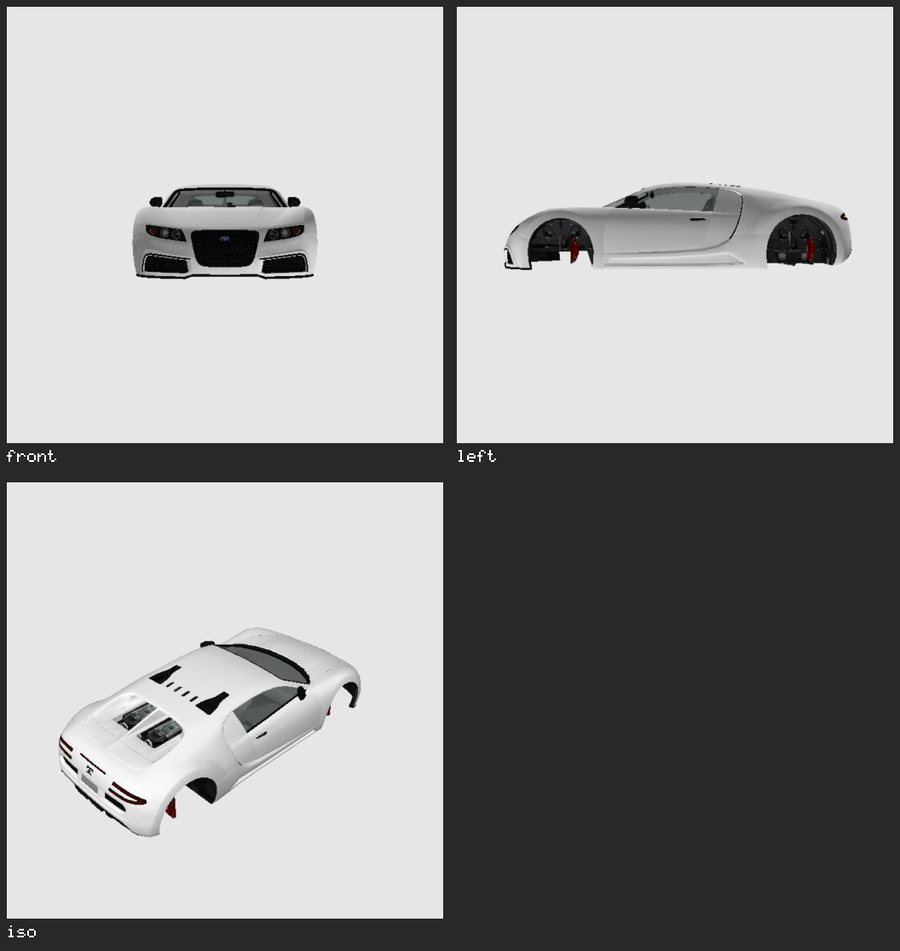
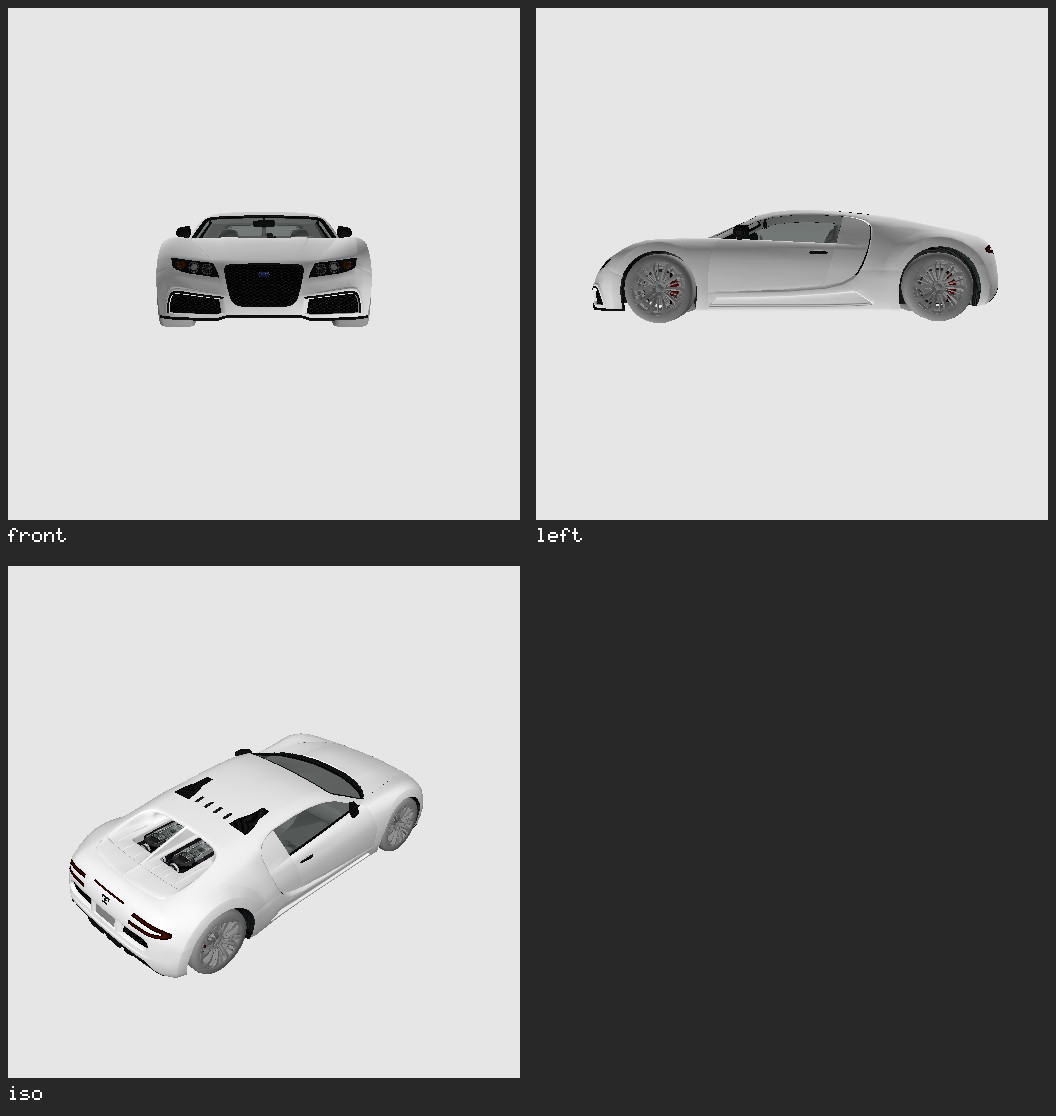
screenshot: render fragments with their wheels and physics children
A .yft now renders as one composite: the body posed by the fragment's
bone transforms plus every physics child with a mesh, placed by its
physics transform (rpf-archive 0.9.0). Empty wheel slots borrow the
front/rear wheel mesh and right-hand wheels are mirrored. The summary
line reports the part and wheel counts; the smoke test renders
jester2.yft from the Festive Surprise DLC and checks for four wheels.
Gallery images regenerated.

Claude-Session: https://claude.ai/code/session_01K19PMkHg2d4DwepLkNtZyr

Changed region(s): [[0.56, 0.183, 0.9333, 0.3049], [0.0622, 0.6709, 0.4044, 0.8843], [0.1556, 0.183, 0.3422, 0.3049]]

diff --git a/src/commands/screenshot.rs b/src/commands/screenshot.rs
@@ -1,10 +1,11 @@
 use anyhow::{Context, Result};
 use std::path::PathBuf;
 
-use rpf_archive::{compose_sheet, encode_image, render_views, DrawableEntry, ImageFormat,
-                  LodLevel, RenderOptions, SheetItem, SheetOptions, TextureSet, View};
+use rpf_archive::{compose_sheet, encode_image, render_parts, wheel_slot, DrawableEntry, ImageFormat,
+                  LodLevel, RenderOptions, RenderPart, SheetItem, SheetOptions, TextureSet, View};
 
-use crate::resources::{embedded_textures, file_stem, load_drawables, load_texture_dictionary, sanitize};
+use crate::resources::{embedded_textures_of, file_stem, load_renderables, load_texture_dictionary, sanitize,
+                       Loaded};
 use crate::rpf::{Archive, GtaKeys};
 
 /// JPEG quality used for the rendered images (PNG/WebP ignore it).
@@ -170,10 +171,66 @@ fn image_file_name(stem: &str, entry: Option<&str>, view: Option<&str>, ext: &st
 
 /// The label an entry is reported and named by.
 fn entry_label(entry: &DrawableEntry) -> String {
-    if entry.name.is_empty() {
-        format!("0x{:08X}", entry.hash)
+    label_for(&entry.name, entry.hash)
+}
+
+fn label_for(name: &str, hash: u32) -> String {
+    if name.is_empty() {
+        format!("0x{hash:08X}")
     } else {
-        strip_rage_suffix(&entry.name).to_string()
+        strip_rage_suffix(name).to_string()
+    }
+}
+
+/// One image set to render: a plain drawable, or a fragment's body with its
+/// wheels and doors placed on it.
+struct Renderable<'a> {
+    label: String,
+    hash: u32,
+    parts: Vec<RenderPart<'a>>,
+    /// Wheel slots drawn (including ones filled from another wheel's mesh).
+    wheels: usize,
+}
+
+/// Lists what to render: each .ydr/.ydd entry on its own; a fragment as one
+/// composite of body plus physics children, followed by its extra drawables.
+fn renderables(loaded: &Loaded) -> Vec<Renderable<'_>> {
+    match loaded {
+        Loaded::Entries(entries) => entries
+            .iter()
+            .map(|entry| Renderable {
+                label: entry_label(entry),
+                hash: entry.hash,
+                parts: vec![RenderPart::new(&entry.drawable)],
+                wheels: 0,
+            })
+            .collect(),
+        Loaded::Fragment(fragment) => {
+            let mut out = Vec::new();
+            if let Some(body) = &fragment.drawable {
+                let name = if fragment.name.is_empty() { &body.name } else { &fragment.name };
+                let fragment_parts = fragment.render_parts();
+                let wheels = fragment_parts
+                    .iter()
+                    .filter(|part| part.bone_tag.is_some_and(|tag| wheel_slot(tag).is_some()))
+                    .count();
+                out.push(Renderable {
+                    label: label_for(name, body.name_hash),
+                    hash: body.name_hash,
+                    parts: fragment_parts.into_iter().map(RenderPart::from).collect(),
+                    wheels,
+                });
+            }
+            for extra in &fragment.extra_drawables {
+                out.push(Renderable {
+                    label: entry_label(extra),
+                    hash: extra.hash,
+                    parts: vec![RenderPart::new(&extra.drawable)],
+                    wheels: 0,
+                });
+            }
+            out
+        }
     }
 }
 
@@ -181,12 +238,12 @@ fn entry_label(entry: &DrawableEntry) -> String {
 fn build_texture_set(
     archive: &Archive,
     args: &ScreenshotArgs,
-    entries: &[DrawableEntry],
+    loaded: &Loaded,
     keys: Option<&GtaKeys>,
 ) -> TextureSet {
     let mut set = TextureSet::new();
 
-    let embedded: Vec<_> = embedded_textures(entries).into_iter().cloned().collect();
+    let embedded: Vec<_> = embedded_textures_of(loaded.drawables()).into_iter().cloned().collect();
     report_failed(&set.push_layer(&embedded), "embedded");
 
     if args.ytd.is_empty() {
@@ -225,10 +282,11 @@ pub fn run(args: &ScreenshotArgs, keys: Option<&GtaKeys>) -> Result<()> {
     let archive = Archive::open(&args.archive, keys)?;
     archive.require_keys(keys)?;
 
-    let mut entries = load_drawables(&archive, &args.file, keys)?;
+    let loaded = load_renderables(&archive, &args.file, keys)?;
+    let mut entries = renderables(&loaded);
 
     if let Some(filter) = &args.entry {
-        entries.retain(|entry| entry_matches(&entry.name, entry.hash, filter));
+        entries.retain(|entry| entry_matches(&entry.label, entry.hash, filter));
         if entries.is_empty() {
             anyhow::bail!("no entry matching '{}' in '{}'", filter, args.file);
         }
@@ -238,7 +296,7 @@ pub fn run(args: &ScreenshotArgs, keys: Option<&GtaKeys>) -> Result<()> {
         anyhow::bail!("'{}' holds no drawables", args.file);
     }
 
-    let textures = build_texture_set(&archive, args, &entries, keys);
+    let textures = build_texture_set(&archive, args, &loaded, keys);
 
     let stem = file_stem(&args.file);
     let out_dir = args.output.clone().unwrap_or_else(|| PathBuf::from("."));
@@ -266,8 +324,8 @@ pub fn run(args: &ScreenshotArgs, keys: Option<&GtaKeys>) -> Result<()> {
     let mut written = 0usize;
 
     for entry in &entries {
-        let label = entry_label(entry);
-        let rendered = render_views(&entry.drawable, &textures, &options, &views)
+        let label = &entry.label;
+        let rendered = render_parts(&entry.parts, &textures, &options, &views)
             .with_context(|| format!("failed to render '{}'", label))?;
 
         let report = rendered
@@ -275,14 +333,20 @@ pub fn run(args: &ScreenshotArgs, keys: Option<&GtaKeys>) -> Result<()> {
             .map(|(_, _, report)| report.clone())
             .unwrap_or_default();
 
+        let parts = if entry.parts.len() > 1 {
+            format!(", {} parts ({} wheels)", entry.parts.len(), entry.wheels)
+        } else {
+            String::new()
+        };
         println!(
-            "{}: {} triangles, {} geometries ({} untextured), lod {}, bounds {}",
+            "{}: {} triangles, {} geometries ({} untextured), lod {}, bounds {}{}",
             label,
             report.triangles,
             report.geometries,
             report.untextured_geometries,
             report.lod.map(|lod| lod.as_str()).unwrap_or("none"),
             if report.bounds_computed { "computed" } else { "from file" },
+            parts,
         );
 
         if !report.missing_textures.is_empty() {
@@ -422,6 +486,83 @@ mod tests {
             "dict_part_a_front.webp"
         );
         assert_eq!(image_file_name("prop_x", None, Some("grid"), "png"), "prop_x_grid.png");
+    }
+
+    fn stub_drawable(name: &str, models: usize) -> rpf_archive::Drawable {
+        use rpf_archive::{Drawable, DrawableBounds, DrawableLod, DrawableModel, Vec3};
+        Drawable {
+            name: name.to_string(),
+            name_hash: rpf_archive::rage_joaat(name),
+            bounds: DrawableBounds { center: Vec3::ZERO, sphere_radius: 0.0, box_min: Vec3::ZERO, box_max: Vec3::ZERO },
+            lod_distances: [0.0; 4],
+            render_masks: [0; 4],
+            shader_group: None,
+            lods: vec![DrawableLod {
+                level: LodLevel::High,
+                models: (0..models)
+                    .map(|_| DrawableModel { skeleton_binding: 0, render_mask_flags: 0, shader_mapping: Vec::new(), geometries: Vec::new() })
+                    .collect(),
+            }],
+        }
+    }
+
+    /// A fragment renders as one entry made of its body and physics children
+    /// (empty wheel slots filled in), followed by its extra drawables as
+    /// entries of their own.
+    #[test]
+    fn fragment_becomes_one_composite_entry_plus_its_extras() {
+        use rpf_archive::{Fragment, FragmentChild, Mat4, Vec3};
+
+        let child = |bone_tag: u16, drawable: Option<rpf_archive::Drawable>| FragmentChild {
+            group_index: 0,
+            bone_tag,
+            drawable,
+            transform: Mat4::identity(),
+        };
+        let fragment = Fragment {
+            name: "adder.#ft".to_string(),
+            bound_center: Vec3::ZERO,
+            bound_radius: 1.0,
+            drawable: Some(stub_drawable("adder", 1)),
+            extra_drawables: vec![DrawableEntry {
+                hash: rpf_archive::rage_joaat("adder_hi"),
+                name: "adder_hi".to_string(),
+                drawable: stub_drawable("adder_hi", 1),
+            }],
+            bone_transforms: Vec::new(),
+            children: vec![
+                child(27922, Some(stub_drawable("wheel_lf", 1))),
+                child(26418, None),
+                child(4321, Some(stub_drawable("door_dside_f", 1))),
+                child(8765, None),
+            ],
+        };
+
+        let loaded = Loaded::Fragment(fragment);
+        let renderables = renderables(&loaded);
+
+        assert_eq!(renderables.len(), 2);
+        assert_eq!(renderables[0].label, "adder");
+        assert_eq!(renderables[0].hash, rpf_archive::rage_joaat("adder"));
+        assert_eq!(renderables[0].parts.len(), 4, "body, two wheels and a door");
+        assert_eq!(renderables[0].wheels, 2);
+        assert_eq!(renderables[1].label, "adder_hi");
+        assert_eq!(renderables[1].parts.len(), 1);
+        assert_eq!(renderables[1].wheels, 0);
+    }
+
+    #[test]
+    fn plain_entries_become_single_part_renderables() {
+        let loaded = Loaded::Entries(vec![DrawableEntry {
+            hash: 0x1234_5678,
+            name: "prop_x.#dr".to_string(),
+            drawable: stub_drawable("prop_x", 1),
+        }]);
+        let renderables = renderables(&loaded);
+        assert_eq!(renderables.len(), 1);
+        assert_eq!(renderables[0].label, "prop_x");
+        assert_eq!(renderables[0].hash, 0x1234_5678);
+        assert_eq!(renderables[0].parts.len(), 1);
     }
 
     #[test]

diff --git a/src/resources.rs b/src/resources.rs
@@ -5,7 +5,8 @@ use anyhow::{Context, Result};
 use std::fs;
 use std::path::Path;
 
-use rpf_archive::{parse_drawables, parse_ytd, DrawableEntry, DrawableKind, RpfEntryKind, YtdTexture};
+use rpf_archive::{parse_drawables, parse_yft, parse_ytd, Drawable, DrawableEntry, DrawableKind, Fragment,
+                  RpfEntryKind, YtdTexture};
 
 use crate::rpf::{Archive, GtaKeys};
 
@@ -54,6 +55,46 @@ pub fn load_drawables(archive: &Archive, name: &str, keys: Option<&GtaKeys>) -> 
     parse_drawables(&data, kind).with_context(|| format!("failed to parse drawable '{}'", name))
 }
 
+/// What a drawable resource loaded for rendering turned out to hold.
+pub enum Loaded {
+    /// A .ydr or .ydd: independent drawables.
+    Entries(Vec<DrawableEntry>),
+    /// A .yft, kept whole so its physics children can be placed on the body.
+    Fragment(Fragment),
+}
+
+impl Loaded {
+    /// Every drawable in the resource, whatever its role.
+    pub fn drawables(&self) -> Vec<&Drawable> {
+        match self {
+            Loaded::Entries(entries) => entries.iter().map(|entry| &entry.drawable).collect(),
+            Loaded::Fragment(fragment) => fragment
+                .drawable
+                .iter()
+                .chain(fragment.children.iter().filter_map(|child| child.drawable.as_ref()))
+                .chain(fragment.extra_drawables.iter().map(|entry| &entry.drawable))
+                .collect(),
+        }
+    }
+}
+
+/// Loads `name` (a .ydr, .ydd or .yft) from `archive` for rendering: a
+/// fragment comes back whole, anything else as its drawable entries.
+pub fn load_renderables(archive: &Archive, name: &str, keys: Option<&GtaKeys>) -> Result<Loaded> {
+    let ext = Path::new(name).extension().and_then(|e| e.to_str()).unwrap_or("");
+    let kind = DrawableKind::from_extension(ext)
+        .with_context(|| format!("'{}' is not a drawable (.ydr/.ydd/.yft)", name))?;
+
+    let data = load_resource(archive, name, keys)?;
+    if kind == DrawableKind::Yft {
+        let fragment = parse_yft(&data).with_context(|| format!("failed to parse fragment '{}'", name))?;
+        return Ok(Loaded::Fragment(fragment));
+    }
+    let entries =
+        parse_drawables(&data, kind).with_context(|| format!("failed to parse drawable '{}'", name))?;
+    Ok(Loaded::Entries(entries))
+}
+
 /// Normalises a `--file`-style spec into the lookup name used against an
 /// archive: appends ".ytd" when the spec carries no extension of its own.
 pub fn ytd_lookup_name(spec: &str) -> String {
@@ -81,11 +122,16 @@ pub fn load_texture_dictionary(archive: &Archive, spec: &str, keys: Option<&GtaK
 /// Collects every texture referenced by the drawables' shader groups,
 /// deduplicated by lowercase name (first occurrence wins), in encounter order.
 pub fn embedded_textures(entries: &[DrawableEntry]) -> Vec<&YtdTexture> {
+    embedded_textures_of(entries.iter().map(|entry| &entry.drawable))
+}
+
+/// [`embedded_textures`] over any set of drawables.
+pub fn embedded_textures_of<'a>(drawables: impl IntoIterator<Item = &'a Drawable>) -> Vec<&'a YtdTexture> {
     let mut seen = std::collections::HashSet::new();
     let mut textures = Vec::new();
 
-    for entry in entries {
-        let Some(shader_group) = &entry.drawable.shader_group else { continue };
+    for drawable in drawables {
+        let Some(shader_group) = &drawable.shader_group else { continue };
         for tex in &shader_group.textures {
             if seen.insert(tex.name.to_lowercase()) {
                 textures.push(tex);

diff --git a/tests/smoke.rs b/tests/smoke.rs
@@ -230,4 +230,26 @@ fn textures_and_screenshot_produce_readable_images() {
 
     let json = stdout_of(&rpf(&["resource", "info", loose.to_str().unwrap(), "--json"]));
     assert!(json.trim().starts_with('{') && json.contains("\"kind\":\"drawables\""), "bad json:\n{json}");
+
+    // 6. A vehicle fragment renders with its wheels. The Festive Surprise
+    //    pack is the smallest DLC with cars; its vehicle archive is nested
+    //    one level down inside dlc.rpf.
+    let dlc = format!("{gtav}/update/x64/dlcpacks/mpchristmas2/dlc.rpf");
+    if !Path::new(&dlc).is_file() {
+        println!("{dlc} not installed; skipping the fragment render");
+        return;
+    }
+    let dlc_dir = tmp.path().join("dlc");
+    rpf(&["extract", &dlc, "*xmas2vehicles.rpf", "-o", dlc_dir.to_str().unwrap()]);
+    let vehicles = find_file(&dlc_dir, "xmas2vehicles.rpf").expect("xmas2vehicles.rpf was not extracted");
+
+    let car_dir = tmp.path().join("car");
+    let summary = stdout_of(&rpf(&[
+        "screenshot", vehicles.to_str().unwrap(), "jester2.yft",
+        "-o", car_dir.to_str().unwrap(), "--views", "iso", "--size", "256x256",
+    ]));
+    assert!(summary.contains("5 parts (4 wheels)"), "wheels not drawn:\n{summary}");
+    let car = decode(&car_dir.join("jester2.png"));
+    let drawn = car.pixels().filter(|pixel| pixel.0 != [230, 230, 230, 255]).count();
+    assert!(drawn > 0, "the vehicle render is entirely background");
 }

diff --git a/README.md b/README.md
@@ -146,9 +146,15 @@ rpf screenshot ./nested/levels/gta5/vehicles.rpf adder.yft --views front,left,is
 ![Adder rendered front, left and iso](docs/images/screenshot-adder-grid.jpg)
 
 Textures a model asks for but no dictionary supplies are drawn flat grey and
-listed by name, so the output itself tells you which `--ytd` to pass next. A YFT
-renders its main body only: wheels and breakable parts are separate drawables
-and do not appear.
+listed by name, so the output itself tells you which `--ytd` to pass next.
+
+A YFT is rendered as one piece: its main body, posed by the fragment's default
+bone transforms, plus every physics child that carries a mesh, placed by its
+physics transform. Vehicle wheels are the usual case. A YFT typically ships one
+front and one rear wheel mesh; the other wheel slots borrow those and right-hand
+wheels are mirrored, the same way CodeWalker fills them in. The summary line
+counts the parts drawn, e.g. `5 parts (4 wheels)`. Damaged variants of a part
+are not drawn.
 
 Vehicle bodies come out white because the paint colour is not in the YFT: the
 game applies it at runtime from carcols metadata. `--paint #rrggbb` tints every
